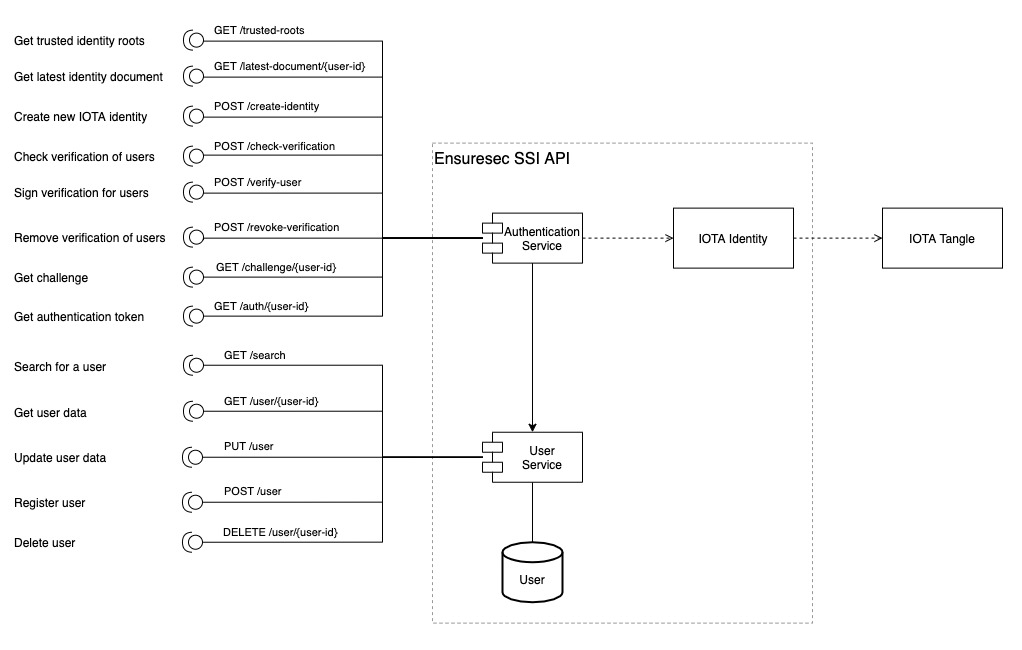
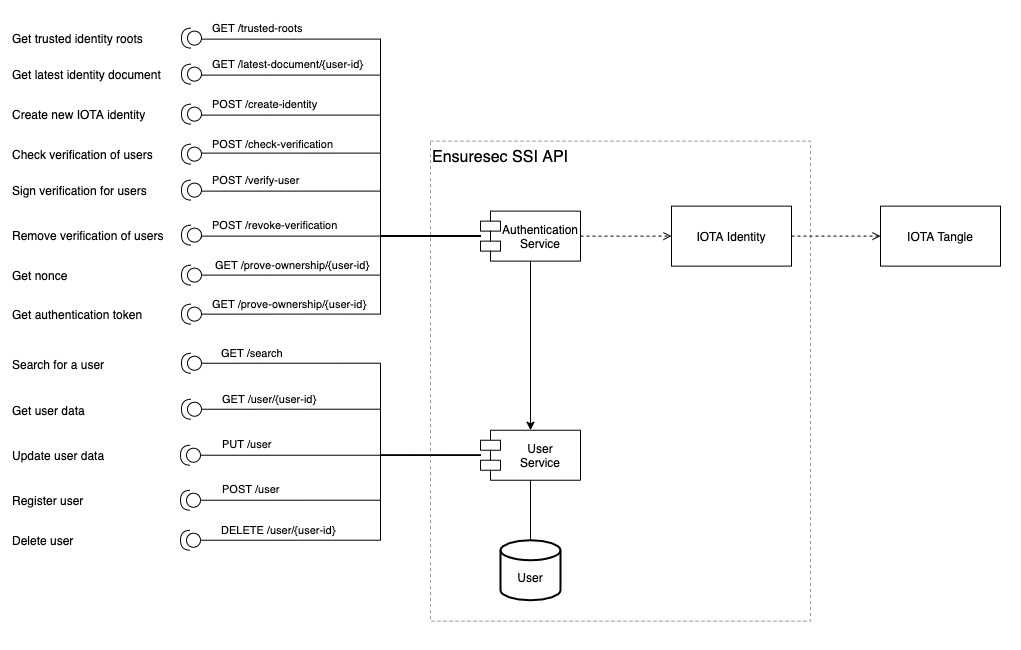
update authentication documentation

diff --git a/api/USAGE.md b/api/USAGE.md
@@ -58,7 +58,7 @@ Request a nonce which must be signed by the private key of the client and send i
 
 `POST /prove-ownership/{user-id}`
 
-Get an authentication token by signing a nonce using the private key. The challenge can be received from `GET /prove-ownership/{user-id}` endpoint, if it is signed correctly a JWT string will be returned in the response. 
+Get an authentication token by signing a nonce using the private key, if it is signed correctly a JWT string will be returned in the response. The nonce can be received from `GET /prove-ownership/{user-id}` endpoint. 
 
 ### User Service 
 
@@ -91,7 +91,7 @@ In order to interact with other users in a trusted way there are three major cal
 
 ### 1. Create an identity
 
-The creation of an identity is one of the key aspects when interacting with other users. By creating an identity, a user creates a public/private key pair. Th public key represents the user public identity, represented by a DID document stored onto the IOTA ledger. The private key is kept secret and used to prove ownership that the identity belongs to a specific user. Ownership of the private key allows the user to proof the identity ownership. Furthermore it is possible to add several information (attributes; espressed in forms of Verifiable Credentials, VCs) about a given identity, such as a name or to which company the user belongs to. This attributes are expressed in the form of Verifiable Credentials, statements about a user, signed by a third party (using its identity and corresponding private key). 
+The creation of an identity is one of the key aspects when interacting with other users. By creating an identity, a user creates a public/private key pair. The public key represents the user public identity, represented by a DID document stored onto the IOTA ledger. The private key is kept secret and used to prove ownership that the identity belongs to a specific user. Ownership of the private key allows the user to proof the identity ownership. Furthermore it is possible to add several information (attributes; espressed in forms of Verifiable Credentials, VCs) about a given identity, such as a name or to which company the user belongs to. This attributes are expressed in the form of Verifiable Credentials, statements about a user, signed by a third party (using its identity and corresponding private key). 
 
 Currently the SSI Bridge supports five data models: `Device`, `Person`, `Organization`, `Service` and `Product`. These are the types which will be validated and are derived by adapting the data models of https://schema.org. In addition, the implementation allows to define custom user's types, to fulfil the need of use cases with different data types. The type of a user is defined by the field type; if an unknown type is provided, the api will reject it.
 
@@ -99,10 +99,9 @@ Currently the SSI Bridge supports five data models: `Device`, `Person`, `Organiz
 
 The following snippet demonstrates an example where an identity of a device will be created. Since schema.org does not have a data model for devices, the device data model of FIWARE was used.
 
-
 https://ensuresec.solutions.iota.org/api/v0.1/authentication/create-identity
 
-Body of the POST request contains the `Device` type, an organization id, username and a data field which contains detailed information about the device.
+The body of the POST request contains the Device type, an organization id, username and a data field which contains detailed information about the device.
 
 ```
 {
@@ -180,77 +179,80 @@ How the client can authenticate at the api is described in the following sequenc
 
 ![verify user sd](./src/assets/diagrams/verify-user-sd.jpeg)
 
-As described in the sequence diagram the client must sign a challenge in order to being able to authenticate at the api. Therefore two scripts must be implemented by the client `getHexEncodedKey` & `signChallenge` which are described in the following:
+As described in the sequence diagram the client must request and then sign a nonce in order to being able to authenticate at the api. Therefore two scripts must be implemented by the client `getHexEncodedKey` & `signNonce` which are described in the following:
 
 ```
 import * as ed from 'noble-ed25519';
 import * as bs58 from 'bs58';
 
-// Decode a base58 key and encode it as hex key. (Needed for signChallenge & verifiyChallenge)
+// Decode a base58 key and encode it as hex key. (Needed for signNonce & verifySignedNonce)
 export const getHexEncodedKey = (base58Key: string) => {
 	return bs58.decode(base58Key).toString('hex');
 };
 
-// Sign a challenge using the private key.
- export const signChallenge = async (privateKey: string, challenge: string) => {
-	return await ed.sign(challenge, privateKey);
+// hash a string
+const hashNonce = (nonce: string) => crypto.createHash('sha256').update(nonce).digest().toString();
+
+// Sign a nonce using the private key.
+export const signNonce = async (privateKey: string, nonce: string): Promise<string> => {
+	const hash = hashNonce(nonce);
+	return await ed.sign(hash, privateKey);
 };
 ```
 
-To verify an identity ownership and to authenticate the user against a corresponding endpoint, first of all a challenge must be created by the selected endpoint. This is triggered by calling the selected endpoint with the userId that requires authentication. An example is:
+To verify an identity ownership and to authenticate the user against a corresponding endpoint, first of all a nonce must be created by the api endpoint. This is triggered by calling the selected endpoint with the userId that requires authentication via __GET__. An example is:
 
-https://ensuresec.solutions.iota.org/api/v0.1/authentication/challenge/did:iota:7Vk97eWqUfyhq92Cp3VsUPe42efdueNyPZMTXKUnsAJL
+https://ensuresec.solutions.iota.org/api/v0.1/authentication/prove-ownership/did:iota:7Vk97eWqUfyhq92Cp3VsUPe42efdueNyPZMTXKUnsAJL
 
-It returns a json object with the challenge (encrypted with the public key of the corresponding user):
+It returns a json object with the generated nonce:
 
 ```
 {
-    "challenge":"�r�*[����hl6�����Y�>(+(��F"
+    "nonce":"25110bd1742ebcabdc9962819a181e91515d51aa"
 }
 ```
 
-This challenge must now be decrypted using the private key of the user keypair and sent back to the `auth` endpoint via POST, which then returns a JWT, in case the challenge was successfully decrypted. This JWT can then be transformed into a Bearer token and be added into the Authorization header of the request.
+This nonce must now be signed using the private key of the user keypair and sent back to the `prove-ownership` endpoint via POST, which then returns a JWT string, in case the nonce was successfully signed. This JWT can then be transformed into a Bearer token and be added into the Authorization header of the request.
 
-Decrypt the challenge by the client can be done with the following two function calls.
+Signing the nonce by the client can be done with the following two function calls.
 
 ```
 const encodedKey = await getHexEncodedKey(identity.key.secret);
-const signedChallenge = await signChallenge(encodedKey, challenge);
+const signedNonce = await signNonce(encodedKey, nonce);
 ```
 
-This challenge must then be sent to the following api via POST:
+This nonce must then be sent to the following api via POST request:
 
-https://ensuresec.solutions.iota.org/api/v0.1/authentication/auth/did:iota:Ced3EL4XN7mLy5ACPdrNsR8HZib2MXKUQuAMQYEMbcb4
+https://ensuresec.solutions.iota.org/api/v0.1/authentication/prove-ownership/did:iota:Ced3EL4XN7mLy5ACPdrNsR8HZib2MXKUQuAMQYEMbcb4
 
-As body of the request the `signedChallenge` must be added like following:
+As body of the request the `signedNonce` must be added like following:
 
 ```
-{ signedChallenge: 'thisisthecontentofthesignedchallenge' }
+{ signedNonce: 'thisisthecontentofthesignednonce' }
 ```
-
 
 A more detailed usage script how to integrate the authentication into a typescript client can be found in the following:
 
 ```
 export const fetchAuth = async (identity: any) => {
-	console.log('requesting challenge to sign...');
+	console.log('requesting nonce to sign...');
 
-	const url = `${Config.baseUrl}/api/v0.1/authentication/challenge/${identity.doc.id}`;
+	const url = `${Config.baseUrl}/api/v1/authentication/prove-ownership/${identity.doc.id}`;
 	const res = await axios.get(url);
 	if (res.status !== 200) {
-		console.error('didnt receive status 200 on get-challenge!');
+		console.error('didnt receive status 200 on get request for prove-ownership!');
 		return;
 	}
 	const body = await res.data;
-	const challenge: string = body.challenge;
-	console.log('received challenge: ', challenge);
+	const nonce: string = body.nonce;
+	console.log('received nonce: ', nonce);
 
 	const encodedKey = await getHexEncodedKey(identity.key.secret);
-	const signedChallenge = await signChallenge(encodedKey, challenge);
-	console.log('signed challenge: ', signedChallenge);
+	const signedNonce = await signNonce(encodedKey, nonce);
+	console.log('signed nonce: ', signedNonce);
 
-	console.log('requesting authentication token using signed challenge...', identity.doc.id);
-	const response = await axios.post(`${Config.baseUrl}/api/v0.1/authentication/auth/${identity.doc.id}`, JSON.stringify({ signedChallenge }), {
+	console.log('requesting authentication token using signed nonce...', identity.doc.id);
+	const response = await axios.post(`${Config.baseUrl}/api/v1/authentication/prove-ownership/${identity.doc.id}`, JSON.stringify({ signedNonce }), {
 		method: 'post',
 		headers: { 'Content-Type': 'application/json' }
 	});
